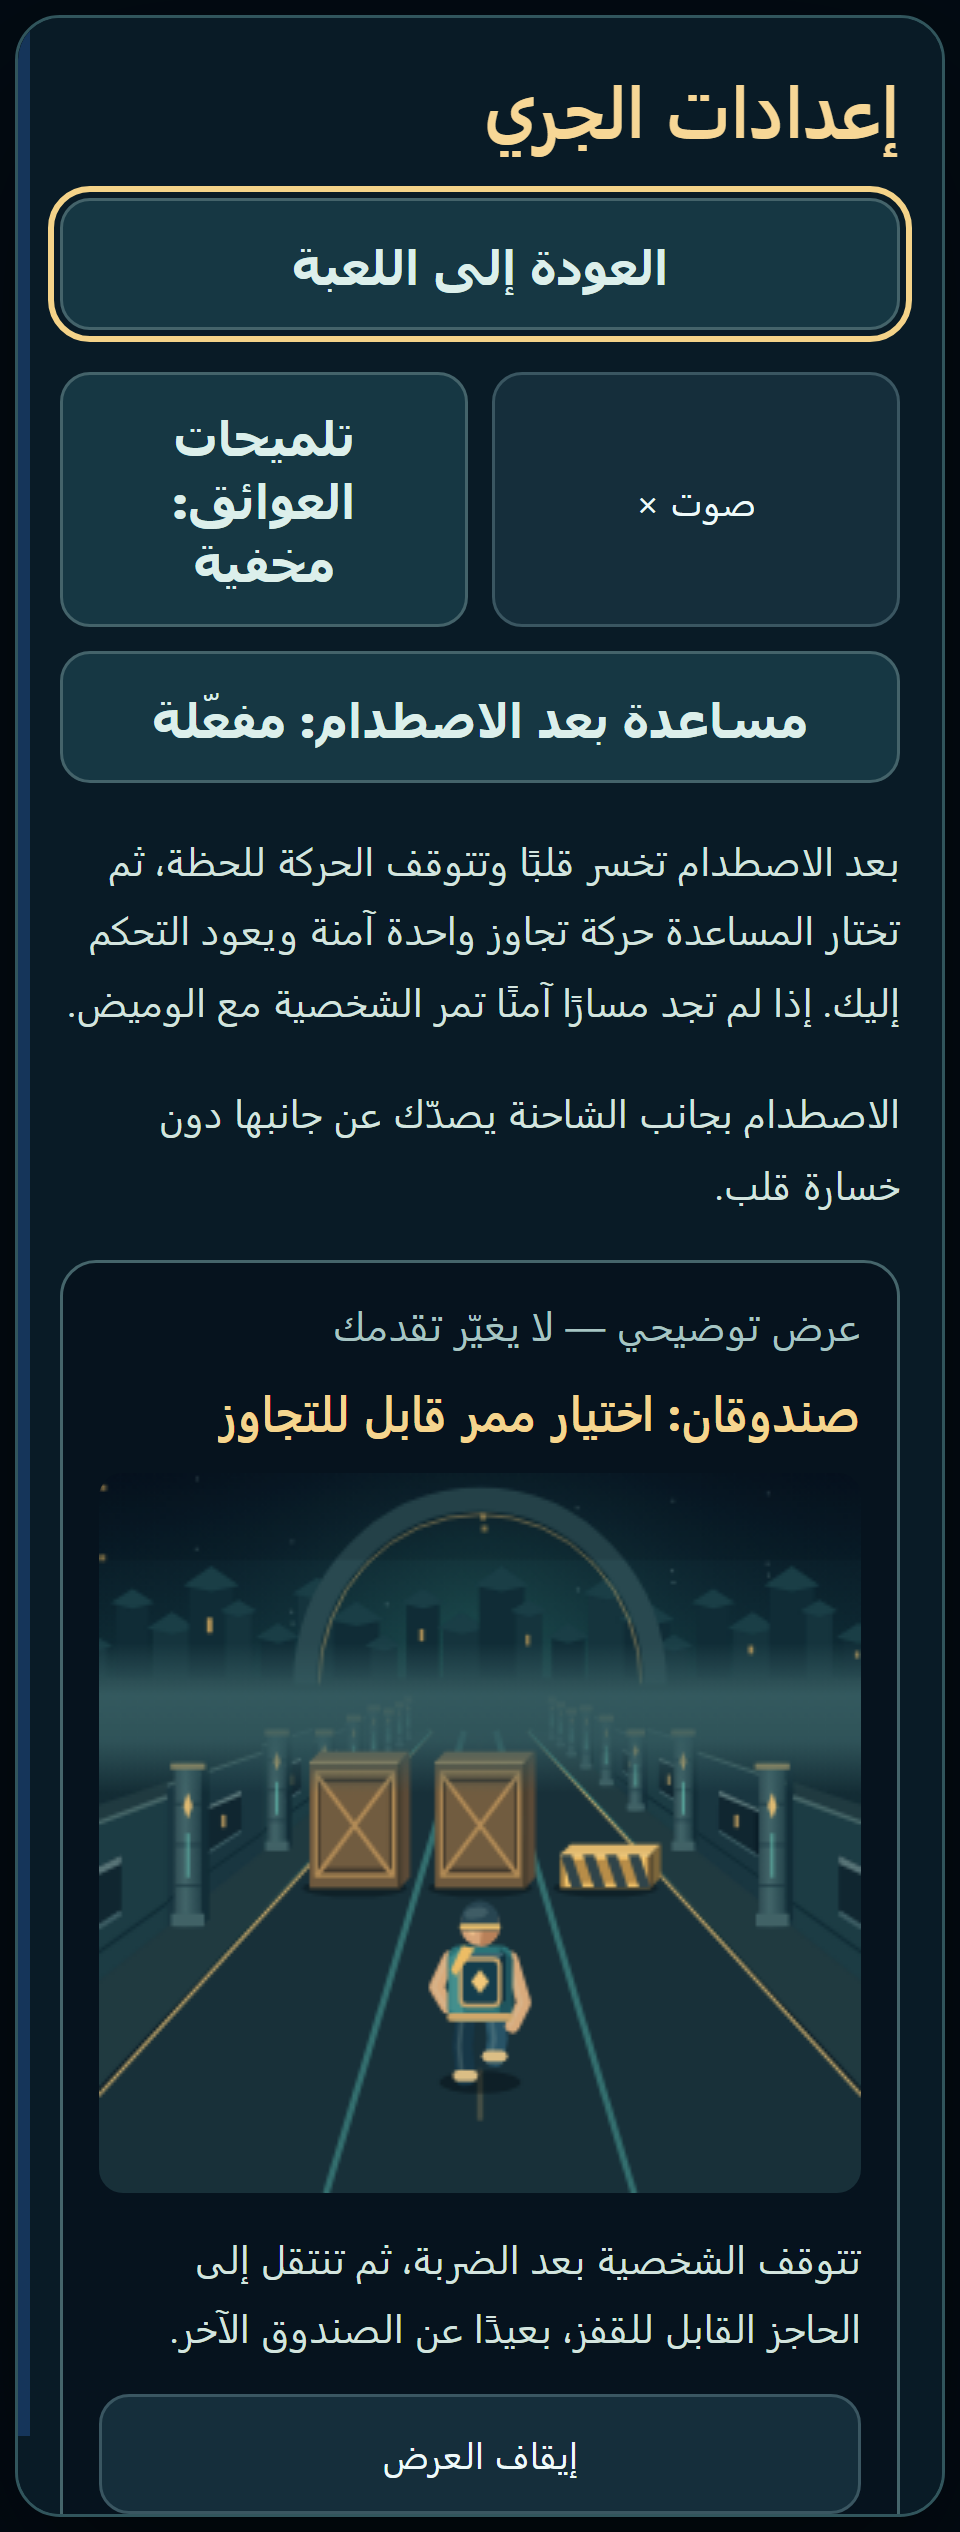
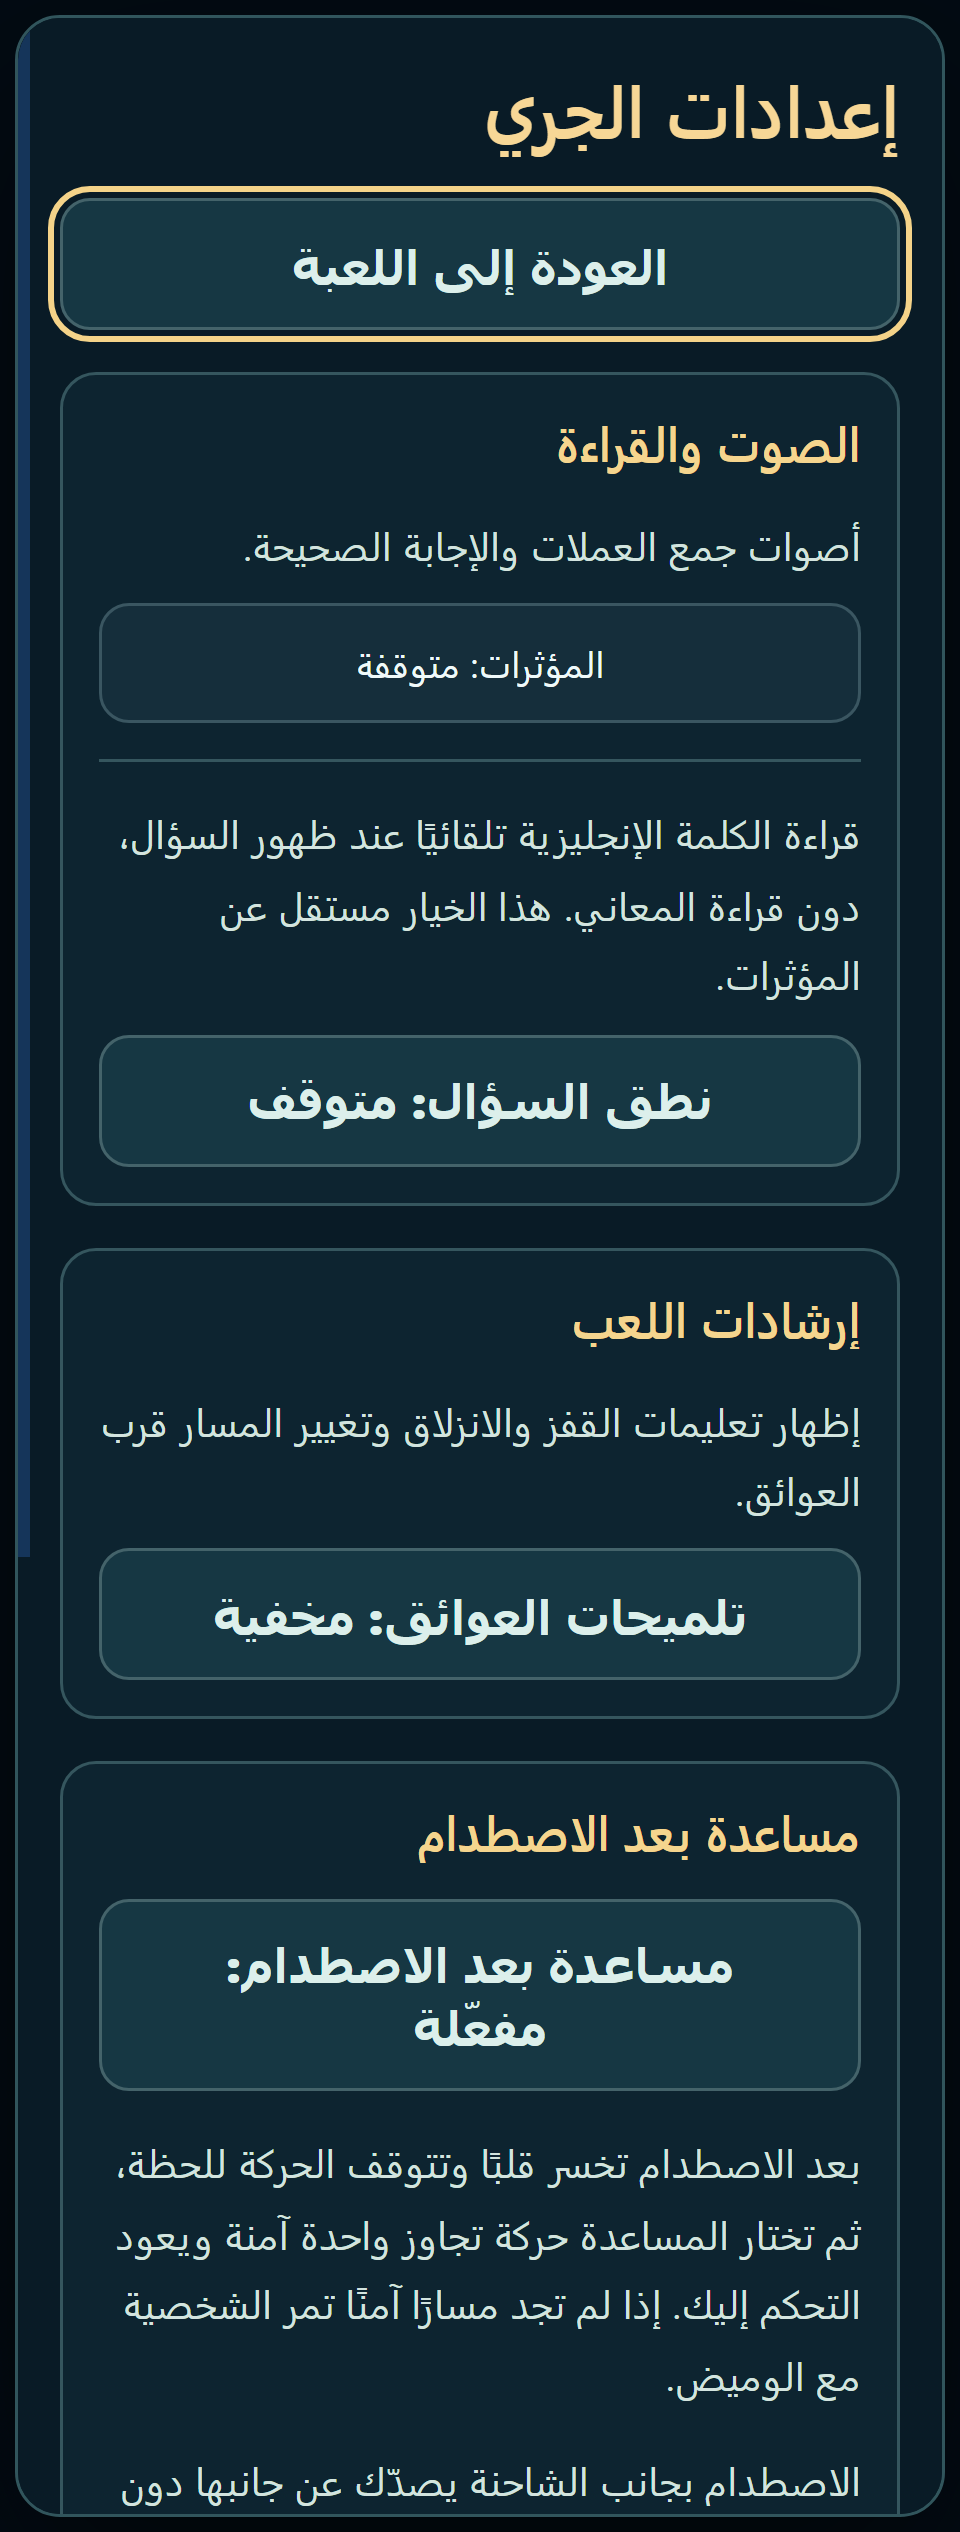
Add independent Runner question narration and refine truck visuals

diff --git a/js/gate-runner.js b/js/gate-runner.js
@@ -95,15 +95,45 @@
     });
     const css = document.querySelector('link[data-runner-style]');
     const styles = css ? Promise.resolve() : new Promise((resolve, reject) => {
-      const link = document.createElement('link'); link.rel = 'stylesheet'; link.href = 'runner.css?v=20261107-runner-solid-1';
+      const link = document.createElement('link'); link.rel = 'stylesheet'; link.href = 'runner.css?v=20261107-runner-speech-1';
       link.dataset.runnerStyle = ''; link.onload = resolve; link.onerror = () => { link.remove(); reject(new Error('Runner styles unavailable')); };
       document.head.append(link);
     });
-    resources = Promise.all([styles, module('LootLinguaRunnerEngine', 'js/runner-engine.js?v=20261107-runner-solid-1'), module('LootLinguaRunnerRenderer', 'js/runner-renderer.js?v=20261107-runner-solid-1')]).catch(error => { resources = null; throw error; });
+    resources = Promise.all([styles, module('LootLinguaRunnerEngine', 'js/runner-engine.js?v=20261107-runner-speech-1'), module('LootLinguaRunnerRenderer', 'js/runner-renderer.js?v=20261107-runner-speech-1')]).catch(error => { resources = null; throw error; });
     return resources;
   }
   function button(label, cls, action) {
     const result = node('button', cls, label); result.type = 'button'; result.addEventListener('click', action); return result;
+  }
+  function createQuestionSpeech() {
+    const key = 'lootlingua.runner.question-speech.v1';
+    const supported = Boolean(window.speechSynthesis && window.SpeechSynthesisUtterance);
+    let enabled = true, current = null, lastGate = null;
+    try { enabled = localStorage.getItem(key) !== 'off'; } catch {}
+    function cancel() {
+      if (!current) return;
+      current = null;
+      try { window.speechSynthesis.cancel(); } catch {}
+    }
+    return {
+      get enabled() { return enabled; }, supported, cancel,
+      toggle() { enabled = !enabled; try { localStorage.setItem(key, enabled ? 'on' : 'off'); } catch {} if (!enabled) cancel(); },
+      read(gate) {
+        if (!gate || gate.id === lastGate) return;
+        lastGate = gate.id;
+        if (!supported || !enabled || !/[a-z]/i.test(gate.word || '') || /[\u0600-\u06ff]/.test(gate.word)) return;
+        cancel();
+        try {
+          const utterance = new window.SpeechSynthesisUtterance(String(gate.word).trim());
+          utterance.lang = 'en-US'; utterance.rate = .9;
+          const voices = window.speechSynthesis.getVoices();
+          const voice = voices.find(item => /^en-US$/i.test(item.lang)) || voices.find(item => /^en\b/i.test(item.lang));
+          if (voice) utterance.voice = voice;
+          utterance.onend = utterance.onerror = () => { if (current === utterance) current = null; };
+          current = utterance; window.speechSynthesis.speak(utterance);
+        } catch { current = null; }
+      },
+    };
   }
   function createCoinAudio() {
     const key = 'lootlingua.runner.sound.v1';
@@ -170,8 +200,9 @@
     const header = node('header', 'llr-header'), brand = node('div', 'llr-brand');
     brand.append(node('small', '', 'LOOT RUNNER'), node('strong', '', 'جري البوابات'));
     const audio = createCoinAudio();
+    const speech = createQuestionSpeech();
     const sound = button('', 'llr-icon-button llr-sound', () => { audio.toggle(); syncSound(); });
-    function syncSound() { sound.textContent = audio.enabled ? 'صوت ✓' : 'صوت ×'; sound.setAttribute('aria-label', audio.enabled ? 'كتم أصوات اللعبة' : 'تشغيل أصوات اللعبة'); sound.setAttribute('aria-pressed', String(audio.enabled)); }
+    function syncSound() { sound.textContent = audio.enabled ? 'المؤثرات: مفعّلة' : 'المؤثرات: متوقفة'; sound.setAttribute('aria-label', audio.enabled ? 'كتم أصوات اللعبة' : 'تشغيل أصوات اللعبة'); sound.setAttribute('aria-pressed', String(audio.enabled)); }
     syncSound();
     const pause = button('إيقاف', 'llr-icon-button', () => setPaused(!state.paused)), exit = button('خروج', 'llr-icon-button', () => cleanup());
     const settingsButton = button('الإعدادات', 'llr-icon-button llr-settings-button', () => openSettings());
@@ -262,9 +293,20 @@
     });
     function syncHints() { hintsToggle.textContent = `تلميحات العوائق: ${showObstacleHints ? 'ظاهرة' : 'مخفية'}`; hintsToggle.setAttribute('aria-pressed', String(showObstacleHints)); }
     syncHints();
-    const settingActions = node('div', 'llr-settings-actions'); settingActions.append(sound, hintsToggle, recovery);
-    settings.append(node('h2', '', 'إعدادات الجري'), closeSettingsButton, settingActions,
-      modeDescription, node('p', '', 'الاصطدام بجانب الشاحنة يصدّك عن جانبها دون خسارة قلب.'), demo);
+    const speechToggle = button('', 'llr-secondary llr-speech-toggle', () => { speech.toggle(); syncSpeech(); });
+    function syncSpeech() { speechToggle.textContent = speech.supported ? `نطق السؤال: ${speech.enabled ? 'مفعّل' : 'متوقف'}` : 'النطق غير مدعوم على هذا المتصفح'; speechToggle.disabled = !speech.supported; speechToggle.setAttribute('aria-pressed', String(speech.enabled && speech.supported)); }
+    syncSpeech();
+    function settingRow(description, control) { const row = node('div', 'llr-setting-row'); row.append(node('p', '', description), control); return row; }
+    const audioSettings = node('section', 'llr-settings-group');
+    audioSettings.append(node('h3', '', 'الصوت والقراءة'),
+      settingRow('أصوات جمع العملات والإجابة الصحيحة.', sound),
+      settingRow('قراءة الكلمة الإنجليزية تلقائيًا عند ظهور السؤال، دون قراءة المعاني. هذا الخيار مستقل عن المؤثرات.', speechToggle));
+    const playSettings = node('section', 'llr-settings-group');
+    playSettings.append(node('h3', '', 'إرشادات اللعب'), settingRow('إظهار تعليمات القفز والانزلاق وتغيير المسار قرب العوائق.', hintsToggle));
+    const recoverySettings = node('section', 'llr-settings-group');
+    recoverySettings.append(node('h3', '', 'مساعدة بعد الاصطدام'), recovery, modeDescription,
+      node('p', '', 'الاصطدام بجانب الشاحنة يصدّك عن جانبها دون خسارة قلب.'), demo);
+    settings.append(node('h2', '', 'إعدادات الجري'), closeSettingsButton, audioSettings, playSettings, recoverySettings);
     syncRecovery();
     game.append(settings);
     function setFocusSurface(dialog, onEscape) {
@@ -301,7 +343,7 @@
     function cleanup() {
       if (destroyed) return; saveRun(); destroyed = true; cancelAnimationFrame(raf);
       cancelAnimationFrame(demoRaf); demoRenderer?.destroy();
-      resizeObserver?.disconnect(); renderer?.destroy(); audio.destroy();
+      resizeObserver?.disconnect(); renderer?.destroy(); audio.destroy(); speech.cancel();
       window.removeEventListener('resize', resize); window.removeEventListener('keydown', keyboard, true);
       document.removeEventListener('visibilitychange', visibility);
       window.removeEventListener('lootlingua:auth-state', authChanged);
@@ -321,10 +363,12 @@
     function setPaused(value) {
       if (!state.running || state.over) return;
       state.paused = value; pause.textContent = value ? 'متابعة' : 'إيقاف';
+      if (value) speech.cancel();
       if (value) { cancelAnimationFrame(raf); showScreen('استراحة قصيرة', 'خذ وقتك. الطريق ينتظرك.', 'متابعة الجري', () => setPaused(false)); }
       else { audio.unlock(); screen.hidden = true; previous = performance.now(); raf = requestAnimationFrame(frame); viewport.focus({ preventScroll: true }); }
     }
     function finish(reason) {
+      speech.cancel();
       state.running = false; cancelAnimationFrame(raf); saveRun(); challenge.hidden = options.hidden = true;
       showScreen(reason, `${Math.floor(state.distance)} متر · ${state.coins} عملة${state.distance > startingBest ? ' · رقم قياسي جديد!' : ''}`, 'جولة جديدة', () => { cleanup(); void launch(context); });
       screen.append(button(context?.source === 'dictionary' ? 'العودة إلى إعدادات اللعبة' : 'العودة إلى البوابة', 'llr-secondary', cleanup));
@@ -336,11 +380,11 @@
       const gate = state.gate;
       if (gate && !gate.resolved) {
         challenge.hidden = options.hidden = false; gateZ = gate.z;
-        if (gate.id !== gateId) { gateId = gate.id; wordLabel.textContent = gate.word; labels.forEach((label, lane) => { label.textContent = gate.options[lane]; }); }
+        if (gate.id !== gateId) { gateId = gate.id; wordLabel.textContent = gate.word; labels.forEach((label, lane) => { label.textContent = gate.options[lane]; }); if (state.running && !state.paused) speech.read(gate); }
         const near = renderer.project(1, gateZ);
         options.style.top = `${Math.max(rect.height * .31, Math.min(rect.height * .64, near.labelY || near.y - 60))}px`;
         labels.forEach((label, lane) => label.classList.toggle('is-selected', lane === state.lane));
-      } else { challenge.hidden = options.hidden = true; gateId = null; }
+      } else { challenge.hidden = options.hidden = true; gateId = null; speech.cancel(); }
       if (state.feedback && state.feedback.until !== feedbackUntil) {
         feedbackUntil = state.feedback.until;
         status.textContent = state.feedback.correct ? 'بوابة صحيحة! أحسنت.' : `المعنى الصحيح: ${state.feedback.correctMeaning || ''}`;

diff --git a/js/runner-renderer.js b/js/runner-renderer.js
@@ -126,8 +126,9 @@
       actorHeight = clamp(Math.min(height * .2, laneWidth * .85), 57, 128);
       metrics.dpr = dpr; cacheBackground();
       horizonFog = context.createLinearGradient(0, horizon - height * .05, 0, horizon + height * .16);
-      horizonFog.addColorStop(0, 'rgba(53,91,96,0)'); horizonFog.addColorStop(.35, 'rgba(53,91,96,.97)');
-      horizonFog.addColorStop(.65, 'rgba(53,91,96,.82)'); horizonFog.addColorStop(1, 'rgba(53,91,96,0)');
+      horizonFog.addColorStop(0, 'rgba(53,91,96,0)'); horizonFog.addColorStop(.18, 'rgba(53,91,96,.35)');
+      horizonFog.addColorStop(.34, 'rgba(53,91,96,.86)'); horizonFog.addColorStop(.53, 'rgba(53,91,96,.88)');
+      horizonFog.addColorStop(.7, 'rgba(53,91,96,.68)'); horizonFog.addColorStop(.86, 'rgba(53,91,96,.22)'); horizonFog.addColorStop(1, 'rgba(53,91,96,0)');
     }
     function road(distance) {
       const nearLeft = project(-.54, -6), nearRight = project(2.54, -6);
@@ -251,8 +252,17 @@
         }
         for (const side of [-1, 1]) {
           mesh([vertex(VEHICLE_RAMP, side), vertex(end, side), vertex(end, side, .09), vertex(VEHICLE_RAMP, side, .09)], side < 0 ? '#325b64' : '#23444e');
+          // A solid loading platform, with its sides tied to the same slope
+          // that supports the runner; no independent moving stair pieces.
+          mesh([vertex(0, side), vertex(VEHICLE_RAMP, side), vertex(VEHICLE_RAMP, side, .09)], side < 0 ? '#77603c' : '#57462e');
         }
         mesh([vertex(end, -1), vertex(end, 1), vertex(end, 1, .1), vertex(end, -1, .1)], '#907443');
+        // Paint the far cab face before its roof, preserving solid occlusion.
+        mesh([vertex(end, -.82, .92), vertex(end, .82, .92), vertex(end, .82, .59), vertex(end, -.82, .59)], '#173c49');
+        mesh([vertex(end, 0, .92), vertex(end, 0, .59)], '#d5b77a', 2);
+        mesh([vertex(end, -.55, .4), vertex(end, .55, .4), vertex(end, .55, .27), vertex(end, -.55, .27)], '#253c42');
+        for (const side of [-1, 1]) mesh([vertex(end, side * .63, .43), vertex(end, side * .88, .43), vertex(end, side * .88, .3), vertex(end, side * .63, .3)], '#ffe4a4');
+        mesh([vertex(end, -.95, .16), vertex(end, .95, .16)], '#526d75', 3);
         face(VEHICLE_RAMP, end, '#719096');
         for (const offset of [10, 15]) {
           mesh([vertex(offset, -.4), vertex(offset + .65, -.4), vertex(offset + .65, .4), vertex(offset, .4)], '#aec0ba');
@@ -262,11 +272,19 @@
           for (const side of [-1, 1]) mesh([vertex(offset, side), vertex(offset, side, .2)], '#719095', 1);
         }
         face(cab, end, '#c09d61');
-        mesh([vertex(cab + .3, -.76), vertex(cab + 1.1, -.76), vertex(cab + 1.1, .76), vertex(cab + .3, .76)], '#203d48');
-        face(0, VEHICLE_RAMP, '#a88e59');
+        mesh([vertex(cab + .6, -.45), vertex(cab + 1.3, -.45), vertex(cab + 1.3, .45), vertex(cab + .6, .45)], '#d3b47b');
+        for (const side of [-1, 1]) {
+          mesh([vertex(cab + .3, side, .91), vertex(end - .25, side, .91), vertex(end - .25, side, .52), vertex(cab + .3, side, .52)], '#173c49');
+          mesh([vertex(cab + .45, side, .85), vertex(end - .55, side, .85), vertex(cab + .45, side, .66)], '#427582');
+          mesh([vertex(cab + .2, side, .4), vertex(end - .2, side, .4)], '#e3c589', 1);
+        }
+        face(0, VEHICLE_RAMP, '#9c8558');
+        // Grip strips and a painted uphill arrow make the loading ramp clear.
+        for (const side of [-1, 1]) mesh([vertex(.3, side * .7), vertex(5.7, side * .7)], '#dfc98c', 2);
         for (let offset = 1; offset < VEHICLE_RAMP; offset++) {
           mesh([vertex(offset, -.94), vertex(offset, .94)], '#4b5a55', Math.max(1, project(1, entity.z + offset).scale * 1.5));
         }
+        mesh([vertex(1.3, -.12), vertex(3.7, -.12), vertex(3.7, -.4), vertex(5.1, 0), vertex(3.7, .4), vertex(3.7, .12), vertex(1.3, .12)], '#f3d68e');
         for (const side of [-1, 1]) {
           edge(0, VEHICLE_RAMP, side, '#d1b579', 2);
           edge(VEHICLE_RAMP, end, side, '#294b55', 2);

diff --git a/runner.css b/runner.css
@@ -3,6 +3,11 @@
 .llr-settings { position: absolute; z-index: 30; inset: 0; padding: clamp(14px, 4vw, 30px); background: #091b26; overflow-y: auto; overscroll-behavior: contain; display: flex; align-items: stretch; flex-direction: column; gap: 14px; }
 .llr-settings h2 { margin: 0; color: #f7d796; }
 .llr-settings p { margin: 0; font-size: 13px; line-height: 1.8; color: #d3e4df; }
+.llr-settings-group { display: grid; gap: 12px; padding: 14px; border: 1px solid #35565e; border-radius: 12px; background: #0d2430; }
+.llr-settings-group h3 { margin: 0; font-size: 16px; color: #f5d58e; }
+.llr-setting-row { display: grid; grid-template-columns: minmax(0, 1fr) auto; gap: 12px; align-items: center; }
+.llr-setting-row + .llr-setting-row { border-top: 1px solid #35565e; padding-top: 12px; }
+@media (max-width: 560px) { .llr-setting-row { grid-template-columns: minmax(0,1fr); gap: 8px; } .llr-settings-group { padding: 12px; } }
 .llr-settings-actions { display: flex; flex-wrap: wrap; gap: 8px; }
 .llr-settings-actions button { flex: 1 1 130px; }
 .llr-settings-actions .llr-recovery { flex-basis: 100%; }

diff --git a/index.html b/index.html
@@ -1226,7 +1226,7 @@
 <script src="js/xp-batch.js?v=20261105-integrity-1"></script>
 <script src="js/dictionary.js?v=20261106-quota-1"></script>
 <script src="js/gate-game-migration.js?v=20261007-1"></script>
-<script src="js/gate-runner.js?v=20261107-runner-solid-1"></script>
+<script src="js/gate-runner.js?v=20261107-runner-speech-1"></script>
 <script src="js/worlds.js?v=20261106-motivation-1"></script>
 <script src="js/dictionary-window.js?v=20261105-render-1"></script>
 <script src="js/dictionary-render.js?v=20261105-pages-1"></script>
